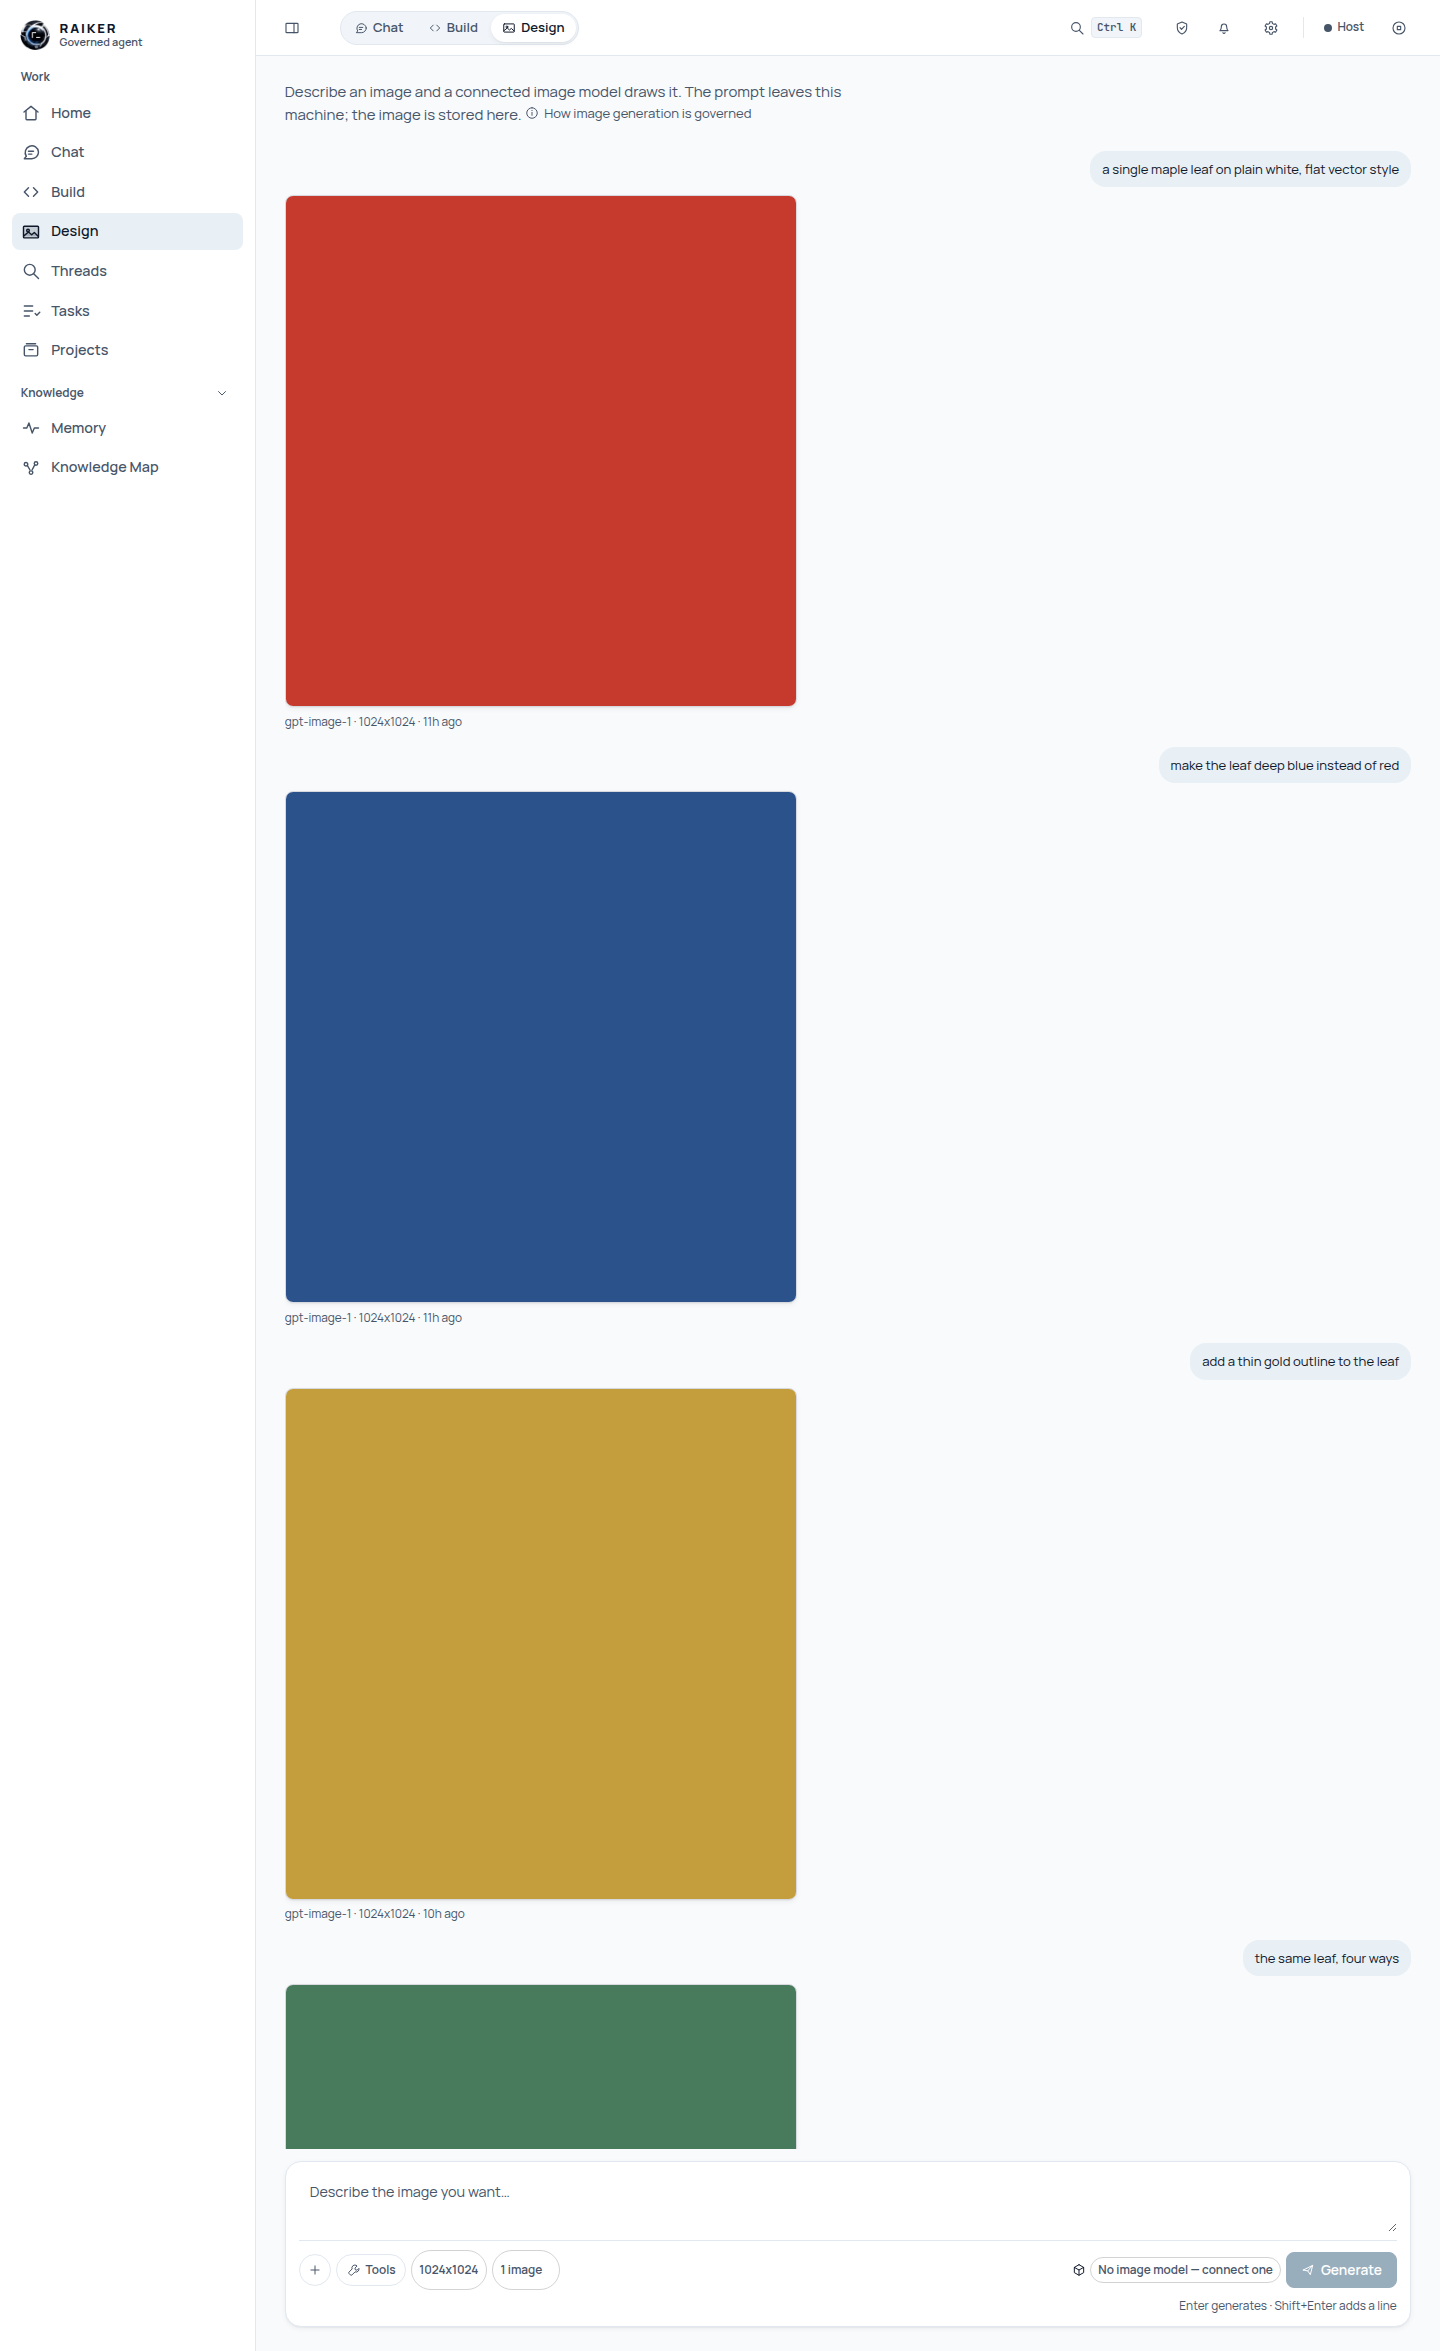
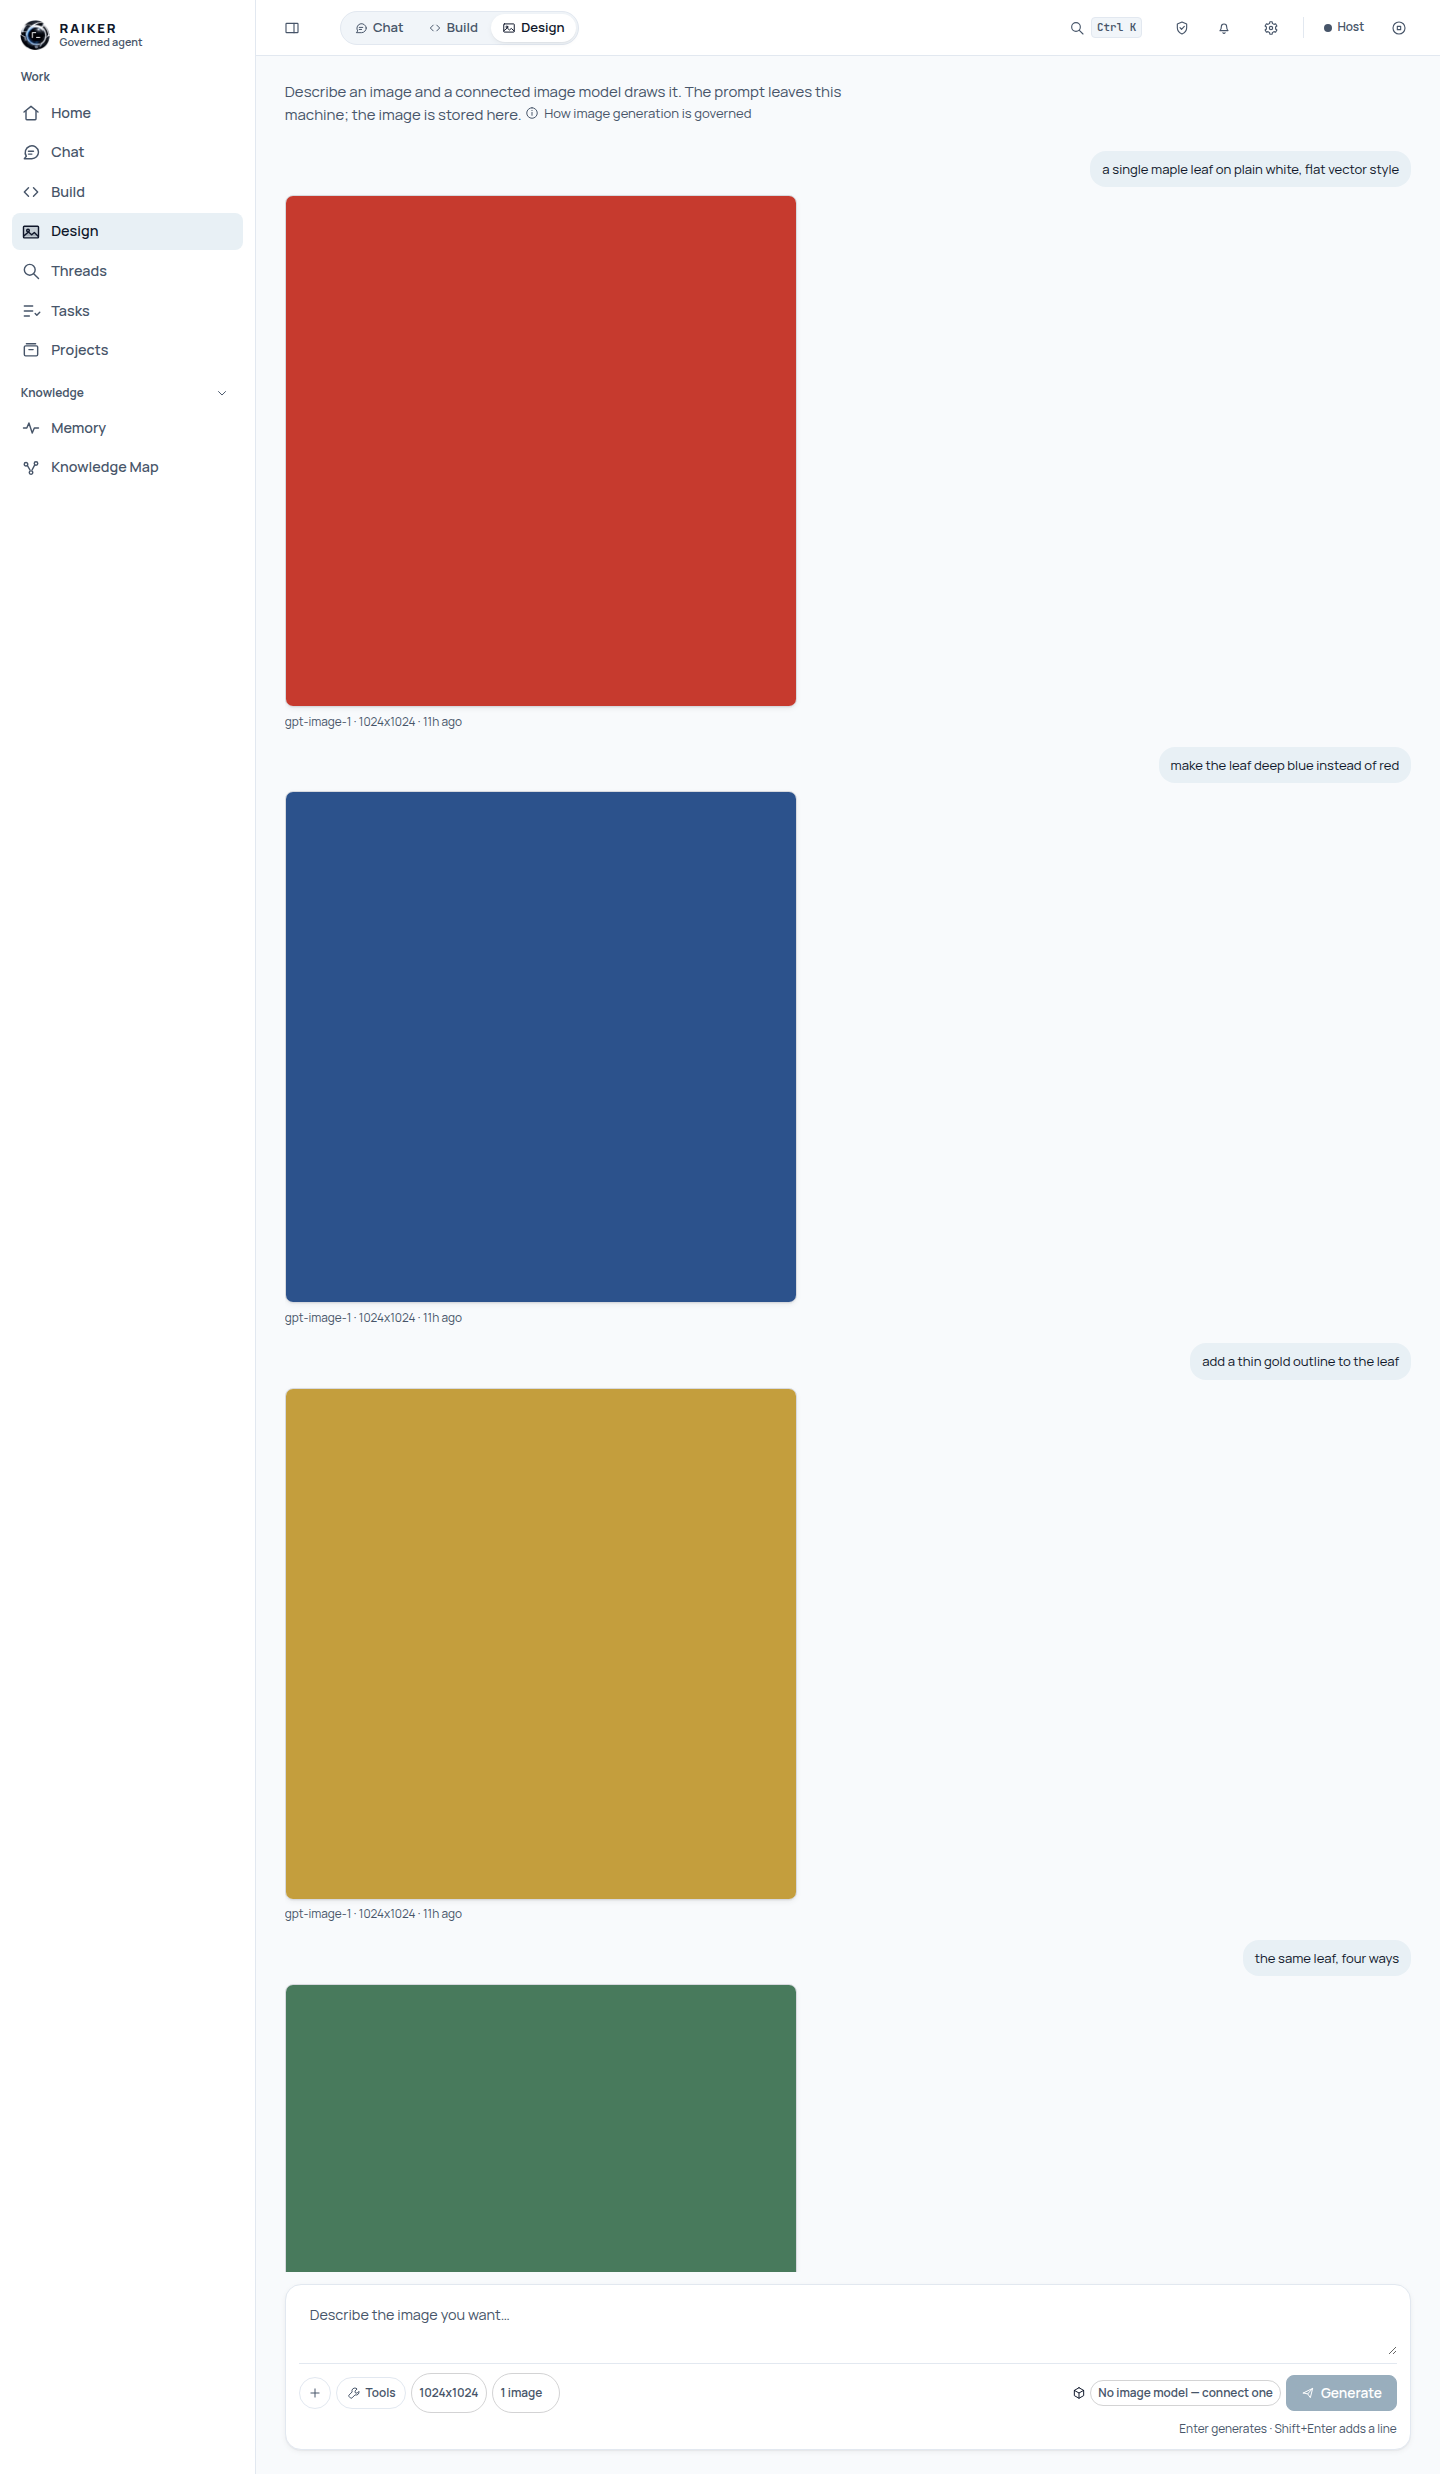
Make the keyboard hint say what the key does
"Enter generates" sat one line under a button reading Edit. That is the
COMPOSER-15 mismatch itself, just moved down a line: two controls for the same
act, disagreeing about which act it is. The hint follows the selection now, and
the live round asserts both words.

Claude-Session: https://claude.ai/code/session_01MCECh295yMFweCLdJzyMns

diff --git a/web/e2e/design-canvas-live.spec.ts b/web/e2e/design-canvas-live.spec.ts
@@ -90,11 +90,15 @@ test("the primary action says Edit once there is something to edit", async ({ pa
   await expect(page.getByRole("button", { name: "Generate", exact: true })).toBeVisible({
     timeout: 60_000,
   });
+  await expect(page.getByText(/Enter generates/)).toBeVisible();
 
   await page.getByRole("button", { name: /Open .* on the canvas/ }).first().click();
 
   await expect(page.getByRole("button", { name: "Edit", exact: true })).toBeVisible();
   await expect(page.getByRole("button", { name: "Generate", exact: true })).toHaveCount(0);
+  // The hint one line below the button names the same act. "Enter generates"
+  // beside a button reading Edit is the mismatch this item is about, moved.
+  await expect(page.getByText(/Enter edits/)).toBeVisible();
   // An edit produces one new version of the selected image, so the count is not
   // a choice while one is selected.
   await expect(page.getByLabel("How many")).toBeDisabled();

diff --git a/web/src/lib/views/DesignView.svelte b/web/src/lib/views/DesignView.svelte
@@ -609,7 +609,10 @@
     {/snippet}
 
     {#snippet hint()}
-      Enter generates · Shift+Enter adds a line
+      <!-- The hint names the same act the button does. "Enter generates" beside
+           a button reading **Edit** is the mismatch COMPOSER-15 is about, one
+           line further down. -->
+      Enter {selectedId ? "edits" : "generates"} · Shift+Enter adds a line
     {/snippet}
   </Composer>
 </div>
